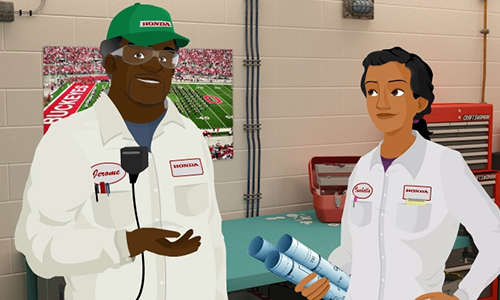
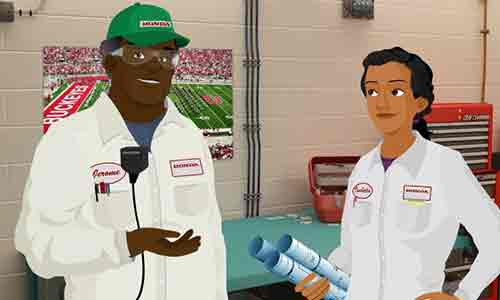
optimized images

diff --git a/src/main/resources/templates/getInvolved.html b/src/main/resources/templates/getInvolved.html
@@ -33,7 +33,7 @@
   <div class="singleGameContentContainer">
     <h1>Get Involved</h1>
 
-    <img src="/assets/edheadsGroup.png" alt="" class="gameImg">
+    <img src="/assets/edheadsGroup.jpg" alt="" class="gameImg">
 
     <div class="singleGameContent" style="margin: 0;">
       <!--            <img src="/assets/game1.jpg" alt="" class="gameImg">-->
